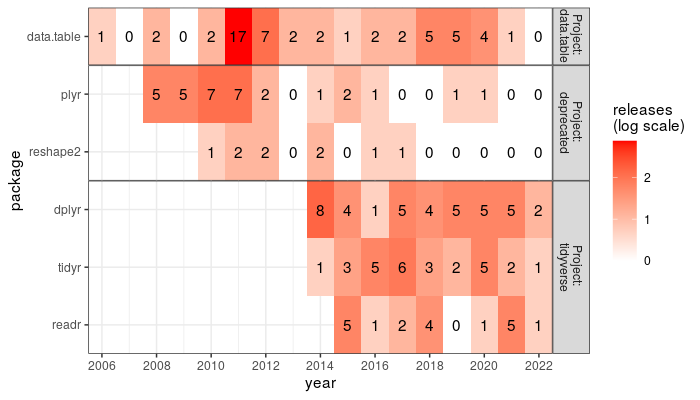
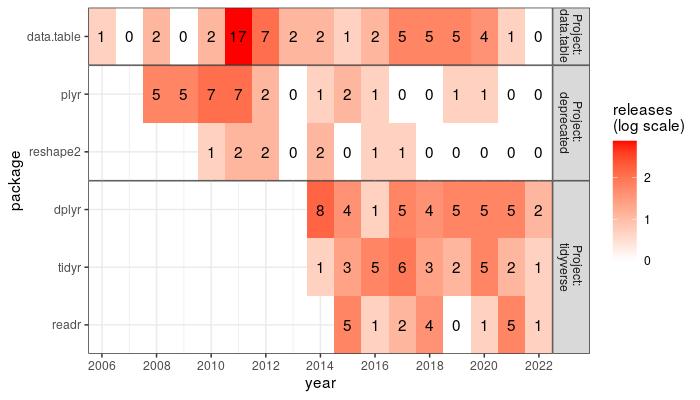
pattern check

Changed region(s): [[0.54, 0.0, 0.6, 0.18]]

diff --git a/_posts/2022-11-02-release-history.md b/_posts/2022-11-02-release-history.md
@@ -116,19 +116,15 @@ The Archive web page can be parsed via a regular expression,
 
 
 ```r
-extract_versions <- function(Archive){
-  nc::capture_all_str(
-    Archive,
-    "_",
-    version="[0-9.]+",
-    "[.]tar[.]gz</a>\\s+",
-    date.str=".*?",
-    "\\s")
-}
+naive.pattern <- list(
+  "_",
+  version="[0-9.]+",
+  "[.]tar[.]gz</a>\\s+",
+  date.str=".*?",
+  "\\s")
 ```
 
-In the function call above, the first argument is `Archive`, the data
-to parse, and the other arguments specify the regular expression:
+The code above specifies a regular expression:
 
 * `"_"` means to start by matching an underscore,
 * `version="[0-9.]+"` means to match one or more digits or dots, and
@@ -145,7 +141,7 @@ version, and one column for each of the named arguments:
 
 
 ```r
-extract_versions(Archive.data.table)
+(naive.dt <- nc::capture_all_str(Archive.data.table, naive.pattern))
 ```
 
 ```
@@ -207,6 +203,189 @@ extract_versions(Archive.data.table)
 ##     version   date.str
 ```
 
+Above the table shows all matches for the given pattern. How do we
+know that it has captured all the patterns? We can use a simpler
+pattern to get all of the packages,
+
+
+```r
+(tar.gz.vec <- grep("tar[.]gz", Archive.data.table, value=TRUE))
+```
+
+```
+##  [1] "      <a href=\"data.table_1.0.tar.gz\">data.table_1.0.tar.gz</a>      2006-04-14 22:03   16K  "     
+##  [2] "      <a href=\"data.table_1.1.tar.gz\">data.table_1.1.tar.gz</a>      2008-08-27 07:35   40K  "     
+##  [3] "      <a href=\"data.table_1.10.0.tar.gz\">data.table_1.10.0.tar.gz</a>   2016-12-03 10:05  2.9M  "  
+##  [4] "      <a href=\"data.table_1.10.2.tar.gz\">data.table_1.10.2.tar.gz</a>   2017-01-31 15:09  2.9M  "  
+##  [5] "      <a href=\"data.table_1.10.4-1.tar.gz\">data.table_1.10.4-1.tar.gz</a> 2017-10-09 22:36  2.9M  "
+##  [6] "      <a href=\"data.table_1.10.4-2.tar.gz\">data.table_1.10.4-2.tar.gz</a> 2017-10-12 14:03  2.9M  "
+##  [7] "      <a href=\"data.table_1.10.4-3.tar.gz\">data.table_1.10.4-3.tar.gz</a> 2017-10-27 07:40  2.9M  "
+##  [8] "      <a href=\"data.table_1.10.4.tar.gz\">data.table_1.10.4.tar.gz</a>   2017-02-01 14:52  2.9M  "  
+##  [9] "      <a href=\"data.table_1.11.0.tar.gz\">data.table_1.11.0.tar.gz</a>   2018-05-01 17:00  3.1M  "  
+## [10] "      <a href=\"data.table_1.11.2.tar.gz\">data.table_1.11.2.tar.gz</a>   2018-05-08 16:16  3.1M  "  
+## [11] "      <a href=\"data.table_1.11.4.tar.gz\">data.table_1.11.4.tar.gz</a>   2018-05-27 16:34  3.1M  "  
+## [12] "      <a href=\"data.table_1.11.6.tar.gz\">data.table_1.11.6.tar.gz</a>   2018-09-19 22:10  3.2M  "  
+## [13] "      <a href=\"data.table_1.11.8.tar.gz\">data.table_1.11.8.tar.gz</a>   2018-09-30 13:30  3.1M  "  
+## [14] "      <a href=\"data.table_1.12.0.tar.gz\">data.table_1.12.0.tar.gz</a>   2019-01-13 11:50  3.2M  "  
+## [15] "      <a href=\"data.table_1.12.2.tar.gz\">data.table_1.12.2.tar.gz</a>   2019-04-07 10:06  3.2M  "  
+## [16] "      <a href=\"data.table_1.12.4.tar.gz\">data.table_1.12.4.tar.gz</a>   2019-10-03 09:10  4.8M  "  
+## [17] "      <a href=\"data.table_1.12.6.tar.gz\">data.table_1.12.6.tar.gz</a>   2019-10-18 22:20  4.7M  "  
+## [18] "      <a href=\"data.table_1.12.8.tar.gz\">data.table_1.12.8.tar.gz</a>   2019-12-09 10:30  4.7M  "  
+## [19] "      <a href=\"data.table_1.13.0.tar.gz\">data.table_1.13.0.tar.gz</a>   2020-07-24 09:40  5.0M  "  
+## [20] "      <a href=\"data.table_1.13.2.tar.gz\">data.table_1.13.2.tar.gz</a>   2020-10-19 18:50  5.0M  "  
+## [21] "      <a href=\"data.table_1.13.4.tar.gz\">data.table_1.13.4.tar.gz</a>   2020-12-08 10:10  5.0M  "  
+## [22] "      <a href=\"data.table_1.13.6.tar.gz\">data.table_1.13.6.tar.gz</a>   2020-12-30 15:50  5.1M  "  
+## [23] "      <a href=\"data.table_1.14.0.tar.gz\">data.table_1.14.0.tar.gz</a>   2021-02-21 06:00  5.1M  "  
+## [24] "      <a href=\"data.table_1.2.tar.gz\">data.table_1.2.tar.gz</a>      2008-09-01 06:59   40K  "     
+## [25] "      <a href=\"data.table_1.4.1.tar.gz\">data.table_1.4.1.tar.gz</a>    2010-05-03 08:40  344K  "   
+## [26] "      <a href=\"data.table_1.5.1.tar.gz\">data.table_1.5.1.tar.gz</a>    2011-01-08 08:31  589K  "   
+## [27] "      <a href=\"data.table_1.5.2.tar.gz\">data.table_1.5.2.tar.gz</a>    2011-01-21 09:03  607K  "   
+## [28] "      <a href=\"data.table_1.5.3.tar.gz\">data.table_1.5.3.tar.gz</a>    2011-02-11 08:49  623K  "   
+## [29] "      <a href=\"data.table_1.5.tar.gz\">data.table_1.5.tar.gz</a>      2010-09-14 06:23  589K  "     
+## [30] "      <a href=\"data.table_1.6.1.tar.gz\">data.table_1.6.1.tar.gz</a>    2011-06-29 09:41  692K  "   
+## [31] "      <a href=\"data.table_1.6.2.tar.gz\">data.table_1.6.2.tar.gz</a>    2011-07-02 14:21  693K  "   
+## [32] "      <a href=\"data.table_1.6.3.tar.gz\">data.table_1.6.3.tar.gz</a>    2011-08-04 11:28  698K  "   
+## [33] "      <a href=\"data.table_1.6.4.tar.gz\">data.table_1.6.4.tar.gz</a>    2011-08-10 05:50  705K  "   
+## [34] "      <a href=\"data.table_1.6.5.tar.gz\">data.table_1.6.5.tar.gz</a>    2011-08-25 04:35  711K  "   
+## [35] "      <a href=\"data.table_1.6.6.tar.gz\">data.table_1.6.6.tar.gz</a>    2011-08-25 20:08  712K  "   
+## [36] "      <a href=\"data.table_1.6.tar.gz\">data.table_1.6.tar.gz</a>      2011-04-24 06:07  684K  "     
+## [37] "      <a href=\"data.table_1.7.1.tar.gz\">data.table_1.7.1.tar.gz</a>    2011-10-22 12:05  728K  "   
+## [38] "      <a href=\"data.table_1.7.10.tar.gz\">data.table_1.7.10.tar.gz</a>   2012-02-07 08:43  758K  "  
+## [39] "      <a href=\"data.table_1.7.2.tar.gz\">data.table_1.7.2.tar.gz</a>    2011-11-07 14:05  735K  "   
+## [40] "      <a href=\"data.table_1.7.3.tar.gz\">data.table_1.7.3.tar.gz</a>    2011-11-25 07:12  741K  "   
+## [41] "      <a href=\"data.table_1.7.4.tar.gz\">data.table_1.7.4.tar.gz</a>    2011-11-29 06:57  741K  "   
+## [42] "      <a href=\"data.table_1.7.5.tar.gz\">data.table_1.7.5.tar.gz</a>    2011-12-04 12:51  742K  "   
+## [43] "      <a href=\"data.table_1.7.6.tar.gz\">data.table_1.7.6.tar.gz</a>    2011-12-13 08:36  743K  "   
+## [44] "      <a href=\"data.table_1.7.7.tar.gz\">data.table_1.7.7.tar.gz</a>    2011-12-15 10:07  744K  "   
+## [45] "      <a href=\"data.table_1.7.8.tar.gz\">data.table_1.7.8.tar.gz</a>    2012-01-25 07:53  754K  "   
+## [46] "      <a href=\"data.table_1.7.9.tar.gz\">data.table_1.7.9.tar.gz</a>    2012-01-31 07:30  756K  "   
+## [47] "      <a href=\"data.table_1.8.0.tar.gz\">data.table_1.8.0.tar.gz</a>    2012-07-16 08:21  768K  "   
+## [48] "      <a href=\"data.table_1.8.10.tar.gz\">data.table_1.8.10.tar.gz</a>   2013-09-03 04:41  914K  "  
+## [49] "      <a href=\"data.table_1.8.2.tar.gz\">data.table_1.8.2.tar.gz</a>    2012-07-17 19:51  799K  "   
+## [50] "      <a href=\"data.table_1.8.4.tar.gz\">data.table_1.8.4.tar.gz</a>    2012-11-09 15:23  820K  "   
+## [51] "      <a href=\"data.table_1.8.6.tar.gz\">data.table_1.8.6.tar.gz</a>    2012-11-13 13:28  821K  "   
+## [52] "      <a href=\"data.table_1.8.8.tar.gz\">data.table_1.8.8.tar.gz</a>    2013-03-06 06:31  874K  "   
+## [53] "      <a href=\"data.table_1.9.2.tar.gz\">data.table_1.9.2.tar.gz</a>    2014-02-27 13:49  1.0M  "   
+## [54] "      <a href=\"data.table_1.9.4.tar.gz\">data.table_1.9.4.tar.gz</a>    2014-10-02 06:41  927K  "   
+## [55] "      <a href=\"data.table_1.9.6.tar.gz\">data.table_1.9.6.tar.gz</a>    2015-09-19 20:13  3.5M  "   
+## [56] "      <a href=\"data.table_1.9.8.tar.gz\">data.table_1.9.8.tar.gz</a>    2016-11-25 11:55  2.9M  "
+```
+
+The output above shows 56 lines, which means there were some that were
+not captured by the regex. Which ones were they?
+
+
+```r
+(missed.subjects <- grep(
+  nc::var_args_list(naive.pattern)$pattern, 
+  tar.gz.vec, value=TRUE, invert=TRUE))
+```
+
+```
+## [1] "      <a href=\"data.table_1.10.4-1.tar.gz\">data.table_1.10.4-1.tar.gz</a> 2017-10-09 22:36  2.9M  "
+## [2] "      <a href=\"data.table_1.10.4-2.tar.gz\">data.table_1.10.4-2.tar.gz</a> 2017-10-12 14:03  2.9M  "
+## [3] "      <a href=\"data.table_1.10.4-3.tar.gz\">data.table_1.10.4-3.tar.gz</a> 2017-10-27 07:40  2.9M  "
+```
+
+The output above indicates 3 missed subjects. Another way to determine
+we missed them would be to use that pattern as follows,
+
+
+```r
+nc::capture_first_vec(tar.gz.vec, naive.pattern)
+```
+
+```
+## Error in stop_for_na(make.na): subject(s) 5,6,7 (3 total) did not match regex below; to output missing rows use nomatch.error=FALSE
+## (?:(?:_([0-9.]+)[.]tar[.]gz</a>\s+(.*?)\s))
+```
+
+```r
+tar.gz.vec[c(5,6,7)]
+```
+
+```
+## [1] "      <a href=\"data.table_1.10.4-1.tar.gz\">data.table_1.10.4-1.tar.gz</a> 2017-10-09 22:36  2.9M  "
+## [2] "      <a href=\"data.table_1.10.4-2.tar.gz\">data.table_1.10.4-2.tar.gz</a> 2017-10-12 14:03  2.9M  "
+## [3] "      <a href=\"data.table_1.10.4-3.tar.gz\">data.table_1.10.4-3.tar.gz</a> 2017-10-27 07:40  2.9M  "
+```
+
+Below we revise the pattern so that it matches all of the tar files,
+including those with a hyphen in the version,
+
+
+```r
+revised.pattern <- list(
+  "_",
+  version="[0-9.-]+",
+  "[.]tar[.]gz</a>\\s+",
+  date.str=".*?",
+  "\\s")
+nc::capture_first_vec(tar.gz.vec, revised.pattern)
+```
+
+```
+##      version   date.str
+##       <char>     <char>
+##  1:      1.0 2006-04-14
+##  2:      1.1 2008-08-27
+##  3:   1.10.0 2016-12-03
+##  4:   1.10.2 2017-01-31
+##  5: 1.10.4-1 2017-10-09
+##  6: 1.10.4-2 2017-10-12
+##  7: 1.10.4-3 2017-10-27
+##  8:   1.10.4 2017-02-01
+##  9:   1.11.0 2018-05-01
+## 10:   1.11.2 2018-05-08
+## 11:   1.11.4 2018-05-27
+## 12:   1.11.6 2018-09-19
+## 13:   1.11.8 2018-09-30
+## 14:   1.12.0 2019-01-13
+## 15:   1.12.2 2019-04-07
+## 16:   1.12.4 2019-10-03
+## 17:   1.12.6 2019-10-18
+## 18:   1.12.8 2019-12-09
+## 19:   1.13.0 2020-07-24
+## 20:   1.13.2 2020-10-19
+## 21:   1.13.4 2020-12-08
+## 22:   1.13.6 2020-12-30
+## 23:   1.14.0 2021-02-21
+## 24:      1.2 2008-09-01
+## 25:    1.4.1 2010-05-03
+## 26:    1.5.1 2011-01-08
+## 27:    1.5.2 2011-01-21
+## 28:    1.5.3 2011-02-11
+## 29:      1.5 2010-09-14
+## 30:    1.6.1 2011-06-29
+## 31:    1.6.2 2011-07-02
+## 32:    1.6.3 2011-08-04
+## 33:    1.6.4 2011-08-10
+## 34:    1.6.5 2011-08-25
+## 35:    1.6.6 2011-08-25
+## 36:      1.6 2011-04-24
+## 37:    1.7.1 2011-10-22
+## 38:   1.7.10 2012-02-07
+## 39:    1.7.2 2011-11-07
+## 40:    1.7.3 2011-11-25
+## 41:    1.7.4 2011-11-29
+## 42:    1.7.5 2011-12-04
+## 43:    1.7.6 2011-12-13
+## 44:    1.7.7 2011-12-15
+## 45:    1.7.8 2012-01-25
+## 46:    1.7.9 2012-01-31
+## 47:    1.8.0 2012-07-16
+## 48:   1.8.10 2013-09-03
+## 49:    1.8.2 2012-07-17
+## 50:    1.8.4 2012-11-09
+## 51:    1.8.6 2012-11-13
+## 52:    1.8.8 2013-03-06
+## 53:    1.9.2 2014-02-27
+## 54:    1.9.4 2014-10-02
+## 55:    1.9.6 2015-09-19
+## 56:    1.9.8 2016-11-25
+##      version   date.str
+```
+
 ## Analyze several packages for comparison
 
 The code below defines a set of four packages for which we would like
@@ -227,7 +406,7 @@ In the code below, we do the same thing for each package,
 ```r
 (release.dt <- compare.pkg.dt[, {
   Archive.pkg <- get_Archive(Package)
-  extract_versions(Archive.pkg)
+  nc::capture_all_str(Archive.pkg, revised.pattern)
 }, by=names(compare.pkg.dt)])
 ```
 
@@ -240,11 +419,11 @@ In the code below, we do the same thing for each package,
 ##   4:  tidyverse      readr   0.2.1 2015-10-21
 ##   5:  tidyverse      readr   0.2.2 2015-10-22
 ##  ---                                         
-## 176: data.table data.table   1.8.8 2013-03-06
-## 177: data.table data.table   1.9.2 2014-02-27
-## 178: data.table data.table   1.9.4 2014-10-02
-## 179: data.table data.table   1.9.6 2015-09-19
-## 180: data.table data.table   1.9.8 2016-11-25
+## 179: data.table data.table   1.8.8 2013-03-06
+## 180: data.table data.table   1.9.2 2014-02-27
+## 181: data.table data.table   1.9.4 2014-10-02
+## 182: data.table data.table   1.9.6 2015-09-19
+## 183: data.table data.table   1.9.8 2016-11-25
 ```
 
 The result above is a data table with one row for each package
@@ -275,11 +454,11 @@ release.dt
 ##   4: data.table data.table   1.4.1 2010-05-03 2010-05-03  2010 data.table \ndata.table
 ##   5: data.table data.table     1.5 2010-09-14 2010-09-14  2010 data.table \ndata.table
 ##  ---                                                                                  
-## 176:  tidyverse      tidyr   1.1.1 2020-07-31 2020-07-31  2020      tidyr  \ntidyverse
-## 177:  tidyverse      tidyr   1.1.2 2020-08-27 2020-08-27  2020      tidyr  \ntidyverse
-## 178:  tidyverse      tidyr   1.1.3 2021-03-03 2021-03-03  2021      tidyr  \ntidyverse
-## 179:  tidyverse      tidyr   1.1.4 2021-09-27 2021-09-27  2021      tidyr  \ntidyverse
-## 180:  tidyverse      tidyr   1.2.0 2022-02-01 2022-02-01  2022      tidyr  \ntidyverse
+## 179:  tidyverse      tidyr   1.1.1 2020-07-31 2020-07-31  2020      tidyr  \ntidyverse
+## 180:  tidyverse      tidyr   1.1.2 2020-08-27 2020-08-27  2020      tidyr  \ntidyverse
+## 181:  tidyverse      tidyr   1.1.3 2021-03-03 2021-03-03  2021      tidyr  \ntidyverse
+## 182:  tidyverse      tidyr   1.1.4 2021-09-27 2021-09-27  2021      tidyr  \ntidyverse
+## 183:  tidyverse      tidyr   1.2.0 2022-02-01 2022-02-01  2022      tidyr  \ntidyverse
 ```
 
 To explain the new columns above,
@@ -298,6 +477,17 @@ The code below creates a basic version history plot,
 
 ```r
 library(ggplot2)
+```
+
+```
+## Warning: replacing previous import 'lifecycle::last_warnings' by 'rlang::last_warnings' when loading 'tibble'
+```
+
+```
+## Warning: replacing previous import 'lifecycle::last_warnings' by 'rlang::last_warnings' when loading 'pillar'
+```
+
+```r
 (gg.points <- ggplot()+
   theme(
     axis.text.x=element_text(hjust=1, angle=40))+
@@ -387,7 +577,7 @@ number of releases, then divide by the number of years,
 ```
 ##       project    Package year_min year_max year_length releases.per.year
 ##        <char>     <char>    <int>    <int>       <int>             <num>
-## 1: data.table data.table     2006     2021          53          3.312500
+## 1: data.table data.table     2006     2021          56          3.500000
 ## 2: deprecated       plyr     2008     2020          32          2.461538
 ## 3: deprecated   reshape2     2010     2017           9          1.125000
 ## 4:  tidyverse      dplyr     2014     2022          39          4.333333
@@ -516,7 +706,7 @@ each year, for each package,
 ##  9: data.table data.table  2014 data.table \ndata.table     2
 ## 10: data.table data.table  2015 data.table \ndata.table     1
 ## 11: data.table data.table  2016 data.table \ndata.table     2
-## 12: data.table data.table  2017 data.table \ndata.table     2
+## 12: data.table data.table  2017 data.table \ndata.table     5
 ## 13: data.table data.table  2018 data.table \ndata.table     5
 ## 14: data.table data.table  2019 data.table \ndata.table     5
 ## 15: data.table data.table  2020 data.table \ndata.table     4
@@ -603,8 +793,8 @@ ggplot()+
 
 ![plot of chunk heatMap](/assets/img/2022-11-02-release-history/heatMap-1.png)
 
-The heat map above shows a different display of the the same release
-data we saw earlier in the dot plot.
+The heat map above shows a summarized display of the release data we
+saw earlier in the dot plot.
 
 Next, we can apply a list of summary functions over all of the yearly
 counts, for each package, via
@@ -621,7 +811,7 @@ counts, for each package, via
 ```
 ##       project    Package N_min N_max    N_mean      N_sd N_length
 ##        <char>     <char> <num> <num>     <num>     <num>    <int>
-## 1: data.table data.table     0    17 3.1176471 4.0755729       17
+## 1: data.table data.table     0    17 3.2941176 4.0890816       17
 ## 2: deprecated       plyr     0     7 2.1333333 2.5597619       15
 ## 3: deprecated   reshape2     0     2 0.6923077 0.8548504       13
 ## 4:  tidyverse      dplyr     1     8 4.3333333 2.0000000        9
@@ -644,7 +834,7 @@ per.year.stats[overall.stats, .(
 ```
 ##       Package overall.mean mean.per.year
 ##        <char>        <num>         <num>
-## 1: data.table    3.1176471      3.312500
+## 1: data.table    3.2941176      3.500000
 ## 2:       plyr    2.1333333      2.461538
 ## 3:   reshape2    0.6923077      1.125000
 ## 4:      dplyr    4.3333333      4.333333
